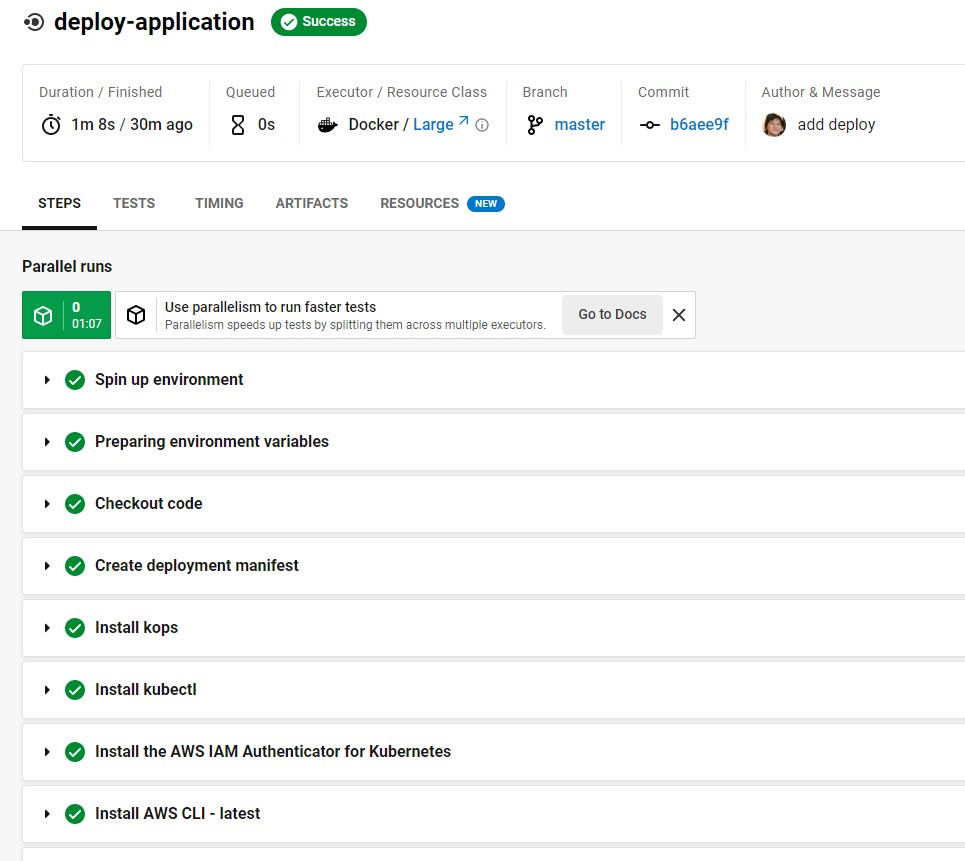
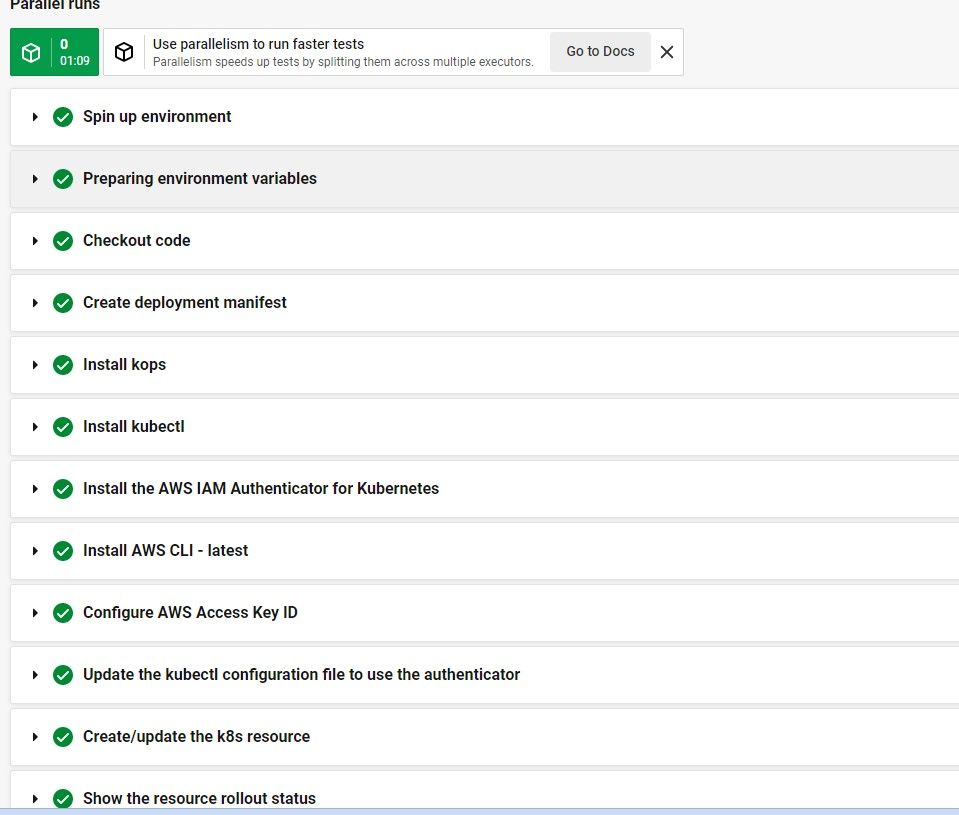
revise for version 2

diff --git a/helloworld/app.py b/helloworld/app.py
@@ -4,6 +4,6 @@ app = Flask(__name__)
 
 @app.route('/')
 def helloIndex():
-    return 'Hello World, my name is Lisa Tang, version 1'
+    return 'Hello World, my name is Lisa Tang, version 2'
 
 app.run(host='0.0.0.0', port=80)

diff --git a/README.md b/README.md
@@ -60,11 +60,17 @@ When circleci step "create-cluster" runs, it
 * Create AWS ec2 instances
   ![](images/aws-ec2.jpg)
 
+## Deploy App
 
+When step deploy-application runs, it deploys the rolling current version to Kubernetes.
+* Deployment images are as follows
+  ![](images/circleci-deploy1.jpg)
+  ![](images/circleci-deploy1.jpg)
 
-
-
-
+* Go to the External IP, we can see our current version Version 1 is running
+  ![](images/ExternalIP-VersionOne.jpg)
+  
+Rolling deployment to AWS EKS after update to app.py
 ---
 
 
@@ -75,7 +81,7 @@ When circleci step "create-cluster" runs, it
    ![](images/docker-3.jpg)
 3. Push image to Docker Hub: `./upload_docker.sh`, below is the image showing the docker upload
    ![](images/docker-4.jpg)
-4. Create initial AWS EKS deployment `./run_kubernete.sh`. 
+4. 
 5. Rolling deployment to AWS EKS after update to app.py:  `./deploy_kubernete.sh`.
 
 
